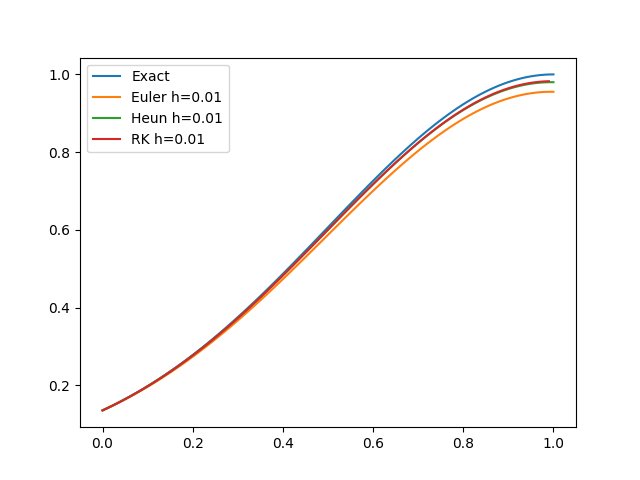
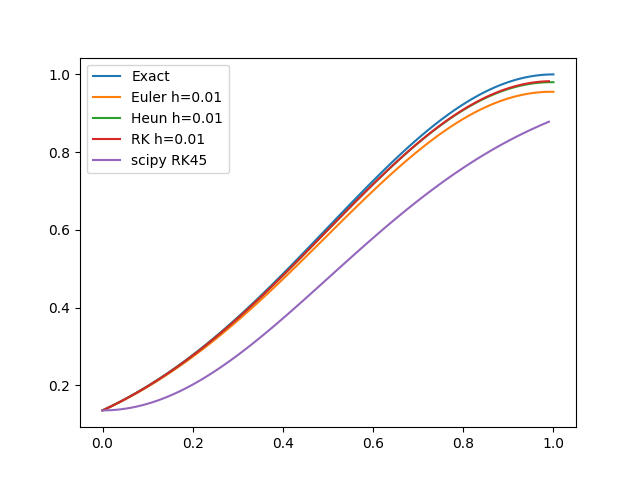
runge kutta

diff --git a/mechanics/ode_compare.py b/mechanics/ode_compare.py
@@ -1,5 +1,6 @@
 import numpy as np
 import matplotlib.pyplot as plt
+from scipy.integrate import odeint
 
 # exact solution
 t_exact = np.linspace(0, 1, 100)
@@ -86,6 +87,13 @@ if __name__ == "__main__":
     heun_method(np.exp(-2), 0.0, 1.0, 0.01, line=True)
     
     runge_kutta(np.exp(-2), 0.0, 1.0, 0.01, line=True)
+
+    
+    # scipyをつかう．
+    t = np.arange(0.0, 1.0, 0.01)
+    x = odeint(diff, np.exp(-2),t )
+    plt.plot(t, x, label="scipy RK45")
+
 
     plt.legend()
     plt.savefig("ode_compare.png")
